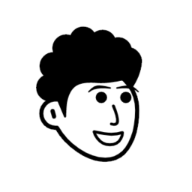
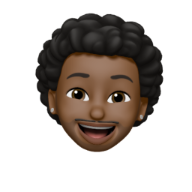
robots changes

diff --git a/morethan-log.config.js b/morethan-log.config.js
@@ -2,7 +2,7 @@ const CONFIG = {
   // profile setting
   profile: {
     name: 'Emmanuel Ejakpomewhe',
-    image: '/avatar.svg',  // If you want to create your own notion avatar, check out https://notion-avatar.vercel.app
+    image: '/avatar.png',  // If you want to create your own notion avatar, check out https://notion-avatar.vercel.app
     discription: 'Software Engineer',
     linkedin: 'emmanuel-robinson-1a22171b0',
     email: 'emmanueloerobinson@gmail.com',

diff --git a/README.md b/README.md
@@ -1,11 +1,7 @@
-# morethan-log
+# Emmanuel Robinson
 
 Static Blog and Resume using Notion and Next.js, deployed on Vercel.
 
-<img width="1712" alt="image" src="https://user-images.githubusercontent.com/72514247/206892232-8a92d9f5-7106-4fe8-aab3-d25f9426f304.png">
-
-- Demo Blog: https://morethan-log.vercel.app
-- Demo Resume: https://morethan-log.vercel.app/resume
 
 ## Features
 
@@ -28,15 +24,6 @@ Static Blog and Resume using Notion and Next.js, deployed on Vercel.
 
 - You can set your own profile information
 - GA, utterances can be easily applied
-
-## Getting Started
-
-1. Star this repo
-2. Duplicate [this Notion template](https://quasar-season-ed5.notion.site/12c38b5f459d4eb9a759f92fba6cea36?v=2e7962408e3842b2a1a801bf3546edda), and share it to the public
-3. Customize `morethan-log.config.js`
-4. Deploy on Vercel, set following environment variables
-   - NOTION_PAGE_ID (Required): The ID of the Notion page you previously shared to the web, usually has 32 digits after your workspace address. (ex. quasar-season-ed5.notion.site/`[NOTION_PAGE_ID]`?v=[VERSION_ID])
-   - <img width="465" alt="image" src="https://user-images.githubusercontent.com/72514247/206605805-c2552dc7-cb7b-414e-adbd-3bccdf0d47e8.png">
 
 ## License
 
